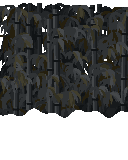
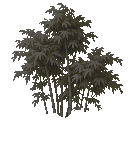
codex S1-BAMB2: done (chưa review)

diff --git a/tools/sprites/H-BAMB/build.py b/tools/sprites/H-BAMB/build.py
@@ -8,12 +8,12 @@ import hashlib
 import json
 import math
 import numpy as np
-from PIL import Image, ImageDraw, ImageFont
+from PIL import Image, ImageDraw
 
 ROOT = Path(__file__).resolve().parents[3]
 HERE = Path(__file__).resolve().parent
 OUT = ROOT / 'public/assets/kits/H-BAMB'
-REC = ROOT / 'records/S1-BAMB'
+REC = ROOT / 'records/S1-BAMB2'
 SRC = HERE / 'src'
 PAL = np.array(json.loads((SRC / 'palette.json').read_text(encoding='utf-8')), dtype=np.int32)
 PIECES = {}
@@ -21,136 +21,36 @@ FULL = {}
 
 
 
-import random
-S=4
-C_DK=[(16,19,21),(23,26,28),(29,32,34)]
-C_MID=[(36,39,41),(48,51,53),(37,31,14)]
-C_HI=[(61,64,67),(51,49,34),(69,72,74),(65,62,45)]
+# Generated whole-object sources; no concept foliage pixels are used.
+# Material subset of hall: warm gray / moss olive, excluding cold blue-grays.
+VEG_PAL = np.array([c for c in PAL.tolist() if tuple(c) in {
+    (20,17,13),(31,29,25),(37,36,30),(43,41,34),(51,49,34),
+    (52,49,43),(62,58,52),(65,62,45),(67,64,58),(74,70,62),
+    (81,77,70),(90,87,80)}], dtype=np.int32)
+MANIFEST = json.loads((OUT / 'kit.json').read_text(encoding='utf-8'))
+MANIFEST_SHA = hashlib.sha256((OUT / 'kit.json').read_bytes()).hexdigest()
+ACTOR_STATS = {}
 
 
-def blade(d, x, y, ang, ln, wd, col):
-    """Tapered curved leaf blade; coordinates in 1x px, drawn at S x."""
-    pts=[]; side=[]
-    n=6
-    a=ang
-    px,py=x,y
-    for i in range(n+1):
-        t=i/n
-        a=ang+ (math.pi/2-ang)*0.0
-        # droop: direction bends toward down
-        dx,dy=math.cos(a),math.sin(a)
-        bend=t*0.9
-        dx2=dx*(1-bend)
-        dy2=dy*(1-bend)+bend
-        m=math.hypot(dx2,dy2) or 1
-        step=ln/n
-        px+=dx2/m*step; py+=dy2/m*step
-        w=wd*(1-t)**0.7*(0.5+t*0.9) if t<.45 else wd*(1-t)*1.25
-        pts.append((px,py,w))
-    left=[];right=[]
-    for i,(qx,qy,w) in enumerate(pts):
-        j=min(i+1,n); k=max(i-1,0)
-        tx=pts[j][0]-pts[k][0]; ty=pts[j][1]-pts[k][1]
-        m=math.hypot(tx,ty) or 1
-        nx,ny=-ty/m,tx/m
-        left.append(((qx+nx*w/2)*S,(qy+ny*w/2)*S))
-        right.append(((qx-nx*w/2)*S,(qy-ny*w/2)*S))
-    d.polygon([(x*S,y*S)]+left+right[::-1],fill=col+(255,))
-
-
-def tuft(d, rng, x, y, size, layer, light=True):
-    cols={0:C_DK,1:C_MID,2:C_HI}[layer]
-    nb=int(9*size)
-    for _ in range(nb):
-        # fan: mostly down/out, some up-out
-        ang=rng.uniform(-0.5,math.pi+0.5)
-        ln=rng.uniform(.6,1.1)*14*size
-        wd=rng.uniform(3.2,4.6)*(0.8+0.3*size)
-        col=rng.choice(cols)
-        if layer==2 and ang>1.9:   # light only on upper-left leaning blades
-            col=C_MID[1]
-        blade(d,x,y,ang,ln,wd,col)
-
-
-def culm(d, x0, y0, y1, w, lean, rng, tone):
-    # tone 0 back (dark), 1 front
-    base=[(29,32,34),(42,45,48)][tone]
-    lit=[(42,45,48),(69,72,74)][tone]
-    shade=[(16,19,21),(23,26,28)][tone]
-    node=(11,7,5) if False else (16,19,21)
-    L=y1-y0 if False else None
-    n=int(abs(y1-y0))
-    for i in range(n+1):
-        y=y0-i if y1<y0 else y0+i
-        x=x0+lean*(y0-y)/max(1,abs(y1-y0))
-        d.rectangle([(x-w/2)*S,y*S,(x+w/2)*S-1,(y+1)*S-1],fill=base+(255,))
-        d.rectangle([(x-w/2)*S,y*S,(x-w/2+max(1,w*.3))*S-1,(y+1)*S-1],fill=lit+(255,))
-        d.rectangle([(x+w/2-max(1,w*.28))*S,y*S,(x+w/2)*S-1,(y+1)*S-1],fill=shade+(255,))
-    # nodes
-    sp=rng.uniform(21,26)
-    k=0
-    yy=y0-6
-    while yy>y1:
-        x=x0+lean*(y0-yy)/max(1,abs(y1-y0))
-        d.rectangle([(x-w/2-.6)*S,yy*S,(x+w/2+.6)*S-1,(yy+2)*S-1],fill=node+(255,))
-        d.rectangle([(x-w/2)*S,(yy-1)*S,(x+w/2-w*.3)*S-1,yy*S-1],fill=lit+(255,))
-        yy-=sp+rng.uniform(-3,3)
-
-
-def draw_bamboo(w, h, seed, dens, kind='grove'):
-    """dens(x)->0..1 left-to-right weight. Whole-object procedural drawing, 1x coords scaled by S."""
-    rng=random.Random(seed)
-    im=Image.new('RGBA',(w*S,h*S),(0,0,0,0))
-    d=ImageDraw.Draw(im)
-    # 1. dark canopy mass (back): big overlapping tufts, filled solid
-    top=0 if kind!='wall' else 0
-    for k in range(int(w*h/150*0.9)):
-        x=rng.uniform(0,w); 
-        if rng.random()>dens(x)+0.08: continue
-        y=rng.uniform(4,h*.74)
-        tuft(d,rng,x,y,rng.uniform(1.0,1.5),0)
-    # solid under-mass for density below canopy
-    for k in range(int(w/6)):
-        x=rng.uniform(0,w)
-        if rng.random()>dens(x): continue
-        for yy in range(int(h*.5),h-3,5):
-            tuft(d,rng,x+rng.uniform(-6,6),yy,rng.uniform(.8,1.1),0)
-    # 2. back culms
-    ncul=max(3,int(w/9))
-    xs=sorted(rng.uniform(4,w-4) for _ in range(ncul))
-    for x in xs:
-        if rng.random()>dens(x)+.1: continue
-        culm(d,x,h-3,2+rng.uniform(0,8),rng.uniform(4,5),rng.uniform(-4,4),rng,0)
-    # 3. mid foliage
-    for k in range(int(w*h/260)):
-        x=rng.uniform(0,w)
-        if rng.random()>dens(x): continue
-        y=rng.uniform(6,h*.72)
-        tuft(d,rng,x,y,rng.uniform(.9,1.3),1)
-    # 4. front culms (thicker, lighter), fewer
-    for x in xs[1::2]:
-        if rng.random()>dens(x)+.1: continue
-        culm(d,x+rng.uniform(-3,3),h-2,6+rng.uniform(0,14),rng.uniform(5,6.5),rng.uniform(-3,3),rng,1)
-    # 5. highlight foliage top-left of crowns
-    for k in range(int(w*h/380)):
-        x=rng.uniform(0,w)
-        if rng.random()>dens(x): continue
-        y=rng.uniform(6,h*.6)
-        tuft(d,rng,x,y,rng.uniform(.7,1.0),2)
-    # 6. foot: dark undergrowth + stones
-    for x in range(0,w,5):
-        if rng.random()<dens(x)+.1:
-            tuft(d,rng,x+rng.uniform(-2,2),h-rng.uniform(4,8),.6,0)
-    a=np.array(im)
-    xs=np.arange(w*S)/S
-    cut=(h-2-(2.5+2.5*np.sin(xs*.37+seed)+1.5*np.sin(xs*.11))).astype(float)*S
-    yy=np.arange(h*S)[:,None]
-    a[yy>cut[None,:]]=0
-    return Image.fromarray(a)
+def source_sprite(filename, size, inset=2, shift=0, shade=1.0):
+    src = Image.open(SRC / filename).convert('RGBA')
+    a = np.array(src)
+    # Ignore only the generator's low-alpha fringe; median makes binary alpha.
+    a[a[...,3] < 128] = 0
+    a[..., :3] = np.minimum(255, a[..., :3].astype(float)*shade).astype('uint8')
+    src = Image.fromarray(a)
+    src = src.crop(src.getbbox())
+    w,h = size
+    target = (w-2*inset-abs(shift), h-2*inset)
+    obj = clean(median(src, target))
+    obj = quant(obj, VEG_PAL)
+    canvas = Image.new('RGBA', size)
+    canvas.alpha_composite(obj, (inset+max(0,shift),inset))
+    return canvas
 
 
 def clean(im):
-    """Drop isolated opaque pixels and fill isolated holes (no speckle)."""
+    """Drop isolated opaque pixels (no speckle)."""
     a=np.array(im); al=a[...,3]>0
     n=sum(np.roll(np.roll(al,dy,0),dx,1).astype(int) for dy in(-1,0,1) for dx in(-1,0,1) if dx or dy)
     a[al&(n<=1)]=0
@@ -173,13 +73,13 @@ def median(im, size):
     return Image.fromarray(b)
 
 
-def quant(im):
+def quant(im, palette=PAL):
     a = np.array(im)
     mask = a[..., 3] > 0
     c = a[mask, :3].astype(np.int32)
     for i in range(0, len(c), 2048):
-        d = ((c[i:i+2048, None] - PAL[None])**2).sum(axis=2)
-        c[i:i+2048] = PAL[d.argmin(axis=1)]
+        d = ((c[i:i+2048, None] - palette[None])**2).sum(axis=2)
+        c[i:i+2048] = palette[d.argmin(axis=1)]
     a[mask, :3] = c
     a[~mask] = 0
     return Image.fromarray(a)
@@ -211,35 +111,33 @@ def split(name, im, foot):
     FULL[name] = im
 
 
+def path_centre(y, phase):
+    # Flat tangent at the common connectors: A/A, A/B, B/A and B/B all join.
+    t = max(0.0,min(1.0,(y-4)/55))
+    return 32 + phase*14*math.sin(math.pi*t)**2
+
+
 def path_tile(phase):
-    # Periodic centre line: every tile has the same north/south connection.
     im = Image.new('RGBA', (64,64), (46,44,40,255))
     d = ImageDraw.Draw(im)
-    def cx(y):
-        return 32 + phase*7*math.sin(2*math.pi*y/63)
     for y in range(64):
-        c = int(cx(y))
-        d.line((c-23,y,c+23,y), fill=(43,41,34,255))
-        d.line((c-18,y,c+17,y), fill=(51,49,34,255))
-    stones = [(-12, -8, 18, 15), (7, 0, 18, 14), (-8, 13, 23, 15),
-              (10, 26, 20, 14), (-10, 39, 22, 15), (7, 52, 19, 16)]
-    for i,(dx,y,w,h) in enumerate(stones):
-        c = round(cx(y%64))+dx-w//2
-        for sy in (y-64, y, y+64):
-            poly=[(c+3,sy),(c+w-3,sy-1),(c+w,sy+4),(c+w-2,sy+h-2),
-                  (c+4,sy+h),(c,sy+h-4),(c-1,sy+4)]
-            d.polygon(poly, fill=(24,22,18,255))
-            inset=[(a,b-2) for a,b in poly]
-            d.polygon(inset, fill=(67,64,58,255) if i%2 else (74,70,62,255))
-            d.line((c+4,sy-2,c+w-4,sy-3),fill=(90,87,80,255),width=2)
-            d.line((c+5,sy+6,c+10,sy+7,c+11,sy+10),fill=(56,53,47,255),width=2)
-    # Sparse grouped fallen leaves, no pixel noise/dither.
-    for x,y in [(9,18),(51,40),(12,51),(50,8)]:
+        c = round(path_centre(y,phase))
+        d.line((c-16,y,c+16,y), fill=(43,41,34,255))
+        d.line((c-13,y,c+13,y), fill=(51,49,34,255))
+    # Small worn stepping stones follow the curve instead of a straight strip.
+    for i,cy in enumerate([0,11,22,33,44,55]):
+        c = round(path_centre(cy,phase)) + (0 if i==0 else (-3 if i%2 else 3))
+        rw = [11,10,12,10,11,10][i]
+        for sy in [cy-63,cy,cy+63]:
+            poly=[(c-rw+3,sy-5),(c+rw-3,sy-5),(c+rw,sy-2),
+                  (c+rw-2,sy+4),(c-rw+2,sy+5),(c-rw,sy+1)]
+            d.polygon([(x,y+2) for x,y in poly],fill=(24,22,18,255))
+            d.polygon(poly,fill=(74,70,62,255) if i%2 else (67,64,58,255))
+            d.line((c-rw+3,sy-5,c+rw-3,sy-5),fill=(90,87,80,255))
+            d.line((c-rw+5,sy-1,c-rw+8,sy,c-rw+8,sy+2),fill=(56,53,47,255))
+    for x,y in [(6,18),(55,40),(8,51),(54,8)]:
         d.polygon([(x,y),(x+5,y+2),(x+2,y+3)],fill=(51,49,34,255))
-    a=np.array(im)
-    a[-1]=a[0]
-    a[:,-1]=a[:,0]
-    return Image.fromarray(a)
+    return im
 
 
 def sheet():
@@ -264,43 +162,54 @@ def sheet():
 
 def assemble():
     concept=Image.open(SRC/'concept-V1.png').convert('RGB')
-    # Only floor pixels are permitted concept reuse; sample open lower-right paving.
+    # The sole permitted concept reuse: open paving for this assembly only.
     floor=concept.crop((370,20,466,76))
     scene=Image.new('RGBA',(480,270))
     for y in range(0,270,floor.height):
         for x in range(0,480,floor.width):
             scene.paste(floor,(x,y))
-    for (tn,x,y) in [('a',64,60),('b',64,124),('a',64,188)]:
-        scene.alpha_composite(Image.open(OUT/('garden_path_'+tn+'.png')),(x,y))
-    placed=[('bamboo_wall',-5,-22),('bamboo_wall',60,-30),('bamboo_wall',110,-22),
-            ('bamboo_grove_b',-62,-42),('bamboo_grove_a',-30,-50),
-            ('bamboo_edge_R',70,-10),('bamboo_grove_b',110,-48),('bamboo_edge_L',150,-8)]
-    placed.sort(key=lambda t:t[2]+FULL[t[0]].height)
-    # Draw all base+roofs except a near foreground clump, then actor, then its roof.
-    for name,x,y in placed:
+    for tn,y in [('a',60),('b',124),('a',188)]:
+        scene.alpha_composite(Image.open(OUT/('garden_path_'+tn+'.png')),(65,y))
+    placed=[('bamboo_wall',-8,-30),('bamboo_wall',80,-42),
+            ('bamboo_grove_b',-47,-35),('bamboo_grove_a',53,-55),
+            ('bamboo_edge_R',145,-18)]
+    for name,x,y in sorted(placed,key=lambda t:t[2]+FULL[t[0]].height):
         scene.alpha_composite(FULL[name],(x,y))
-    near=('bamboo_edge_L',108,62)
-    name,x,y=near
-    scene.alpha_composite(Image.open(OUT/(name+'.png')),(x,y))
     atlas=Image.open(ROOT/'public/assets/dao_si.png').convert('RGBA')
     data=json.loads((ROOT/'public/assets/dao_si.json').read_text(encoding='utf-8'))
     f=next(f['frame'] for f in data['frames'] if f['filename']=='dao_si_idle_down_00')
     actor=atlas.crop((f['x'],f['y'],f['x']+f['w'],f['y']+f['h']))
-    actor_x,actor_y=74,104
+    actor_x,actor_y=69,108
+    actor_mask=np.array(actor)[...,3]>0
+    ys=np.where(actor_mask)[0]
+    upper = np.indices(actor_mask.shape)[0] <= ys.min() + int((ys.max()-ys.min())*.28)
+    total=int(actor_mask.sum())
+    roof=Image.open(OUT/'bamboo_edge_L_roof.png').convert('RGBA')
+    # Find a genuine tip overlap on the actor's upper silhouette only.
+    options=[]
+    for x in range(48,96):
+        for y in range(18,53):
+            mask=Image.new('RGBA',scene.size)
+            mask.alpha_composite(roof,(x,y))
+            coverage=np.array(mask)[actor_y:actor_y+64,actor_x:actor_x+64,3]>0
+            hidden=int((coverage&actor_mask).sum())
+            lower=int((coverage&actor_mask&~upper).sum())
+            if 0<hidden<=total*.4 and lower==0:
+                options.append((abs(hidden/total-.055),x,y,hidden))
+    assert options, 'No safe canopy-tip overlap found'
+    _,x,y,hidden=min(options)
+    scene.alpha_composite(Image.open(OUT/'bamboo_edge_L.png'),(x,y))
     scene.alpha_composite(actor,(actor_x,actor_y))
-    before=np.array(scene)
-    scene.alpha_composite(Image.open(OUT/(name+'_roof.png')),(x,y))
-    changed=np.any(np.array(scene)!=before,axis=2)
-    am=np.zeros((270,480),bool)
-    am[actor_y:actor_y+64,actor_x:actor_x+64]=np.array(actor)[...,3]>0
-    hidden=int((changed&am).sum())
+    scene.alpha_composite(roof,(x,y))
+    ACTOR_STATS.update(total=total,hidden=hidden,visible_pct=round(100*(1-hidden/total),2),
+                       upper_only=True,position=[actor_x,actor_y],foreground=[x,y])
     scene.convert('RGB').save(REC/'assembly-scene.png')
     board=Image.new('RGB',(960,294),'#24241f')
     board.paste(concept,(0,24))
     board.paste(scene.convert('RGB'),(480,24))
     d=ImageDraw.Draw(board)
     d.text((8,7),'Concept C / V1 - native 480x270',fill='#d8d2c4')
-    d.text((488,7),'H-BAMB / native 480x270 / real Dao Si',fill='#d8d2c4')
+    d.text((488,7),f'H-BAMB2 / Dao Si visible {ACTOR_STATS["visible_pct"]}%',fill='#d8d2c4')
     board.save(REC/'assembly.png')
     return hidden
 
@@ -308,12 +217,12 @@ def assemble():
 def build():
     OUT.mkdir(parents=True,exist_ok=True)
     REC.mkdir(parents=True,exist_ok=True)
-    dl=lambda x,w: 1.0
-    gA=quant(clean(median(draw_bamboo(128,160,11,lambda x:1.0),(128,160))))
-    gB=quant(clean(median(draw_bamboo(128,160,23,lambda x:1.0),(128,160))))
-    eL=quant(clean(median(draw_bamboo(64,128,31,lambda x:max(0.05,1-x/64*0.95),'edge'),(64,128))))
-    eR=quant(clean(median(draw_bamboo(64,128,37,lambda x:max(0.05,x/64*0.95),'edge'),(64,128))))
-    wl=quant(clean(median(draw_bamboo(128,96,41,lambda x:1.0,'wall'),(128,96))))
+    gA=source_sprite('grove-imagegen-v2.png',(128,160))
+    gB=source_sprite('grove-imagegen-v2.png',(128,160),inset=3,shift=7,shade=.92)
+    eL=source_sprite('edge-imagegen-v2.png',(64,128),inset=2)
+    # Use a complete grove for the opposite edge: no mirror that reverses light.
+    eR=source_sprite('grove-imagegen-v2.png',(64,128),inset=3,shift=3)
+    wl=source_sprite('grove-imagegen-v2.png',(128,96),inset=2,shade=.8)
     split('bamboo_grove_a',gA,[128,24])
     split('bamboo_grove_b',gB,[128,24])
     split('bamboo_edge_L',eL,[64,20])
@@ -321,7 +230,8 @@ def build():
     split('bamboo_wall',wl,[128,24])
     for letter,phase in [('a',1),('b',-1)]:
         save('garden_path_'+letter,path_tile(phase),'ground',[0,64],[64,64])
-    (OUT/'kit.json').write_text(json.dumps({'kit':'H-BAMB','pieces':PIECES},indent=2)+'\n',encoding='utf-8')
+    assert {'kit':'H-BAMB','pieces':PIECES} == MANIFEST, 'Manifest metadata changed'
+    assert hashlib.sha256((OUT/'kit.json').read_bytes()).hexdigest() == MANIFEST_SHA
     sheet()
     hidden=assemble()
     return hidden
@@ -329,6 +239,7 @@ def build():
 
 def verify(hidden):
     files=list(OUT.glob('*.png'))
+    assert {p.name for p in files} == {p['file'] for p in MANIFEST['pieces'].values()}
     allowed=set(map(tuple,PAL.tolist()))
     off=semi=0
     for path in files:
@@ -344,8 +255,18 @@ def verify(hidden):
         b=Image.open(OUT/(name+'.png')).convert('RGBA')
         b.alpha_composite(Image.open(OUT/(name+'_roof.png')))
         assert np.array_equal(np.array(b),np.array(full)),name+' split reconstruction'
-    assert hidden>0,'Actor must visibly overlap foreground roof'
-    return f'PASS H-BAMB: sprites={len(files)} K-A5={off} alpha_intermediate={semi} pairs=5 seamless_paths=2 actor_occluded_pixels={hidden}'
+    assert 0 < hidden <= ACTOR_STATS['total']*.4, 'Actor visibility below 60%'
+    assert ACTOR_STATS['upper_only']
+    # All variant combinations share both connector rows, including stone edges.
+    aa=np.array(Image.open(OUT/'garden_path_a.png'))
+    bb=np.array(Image.open(OUT/'garden_path_b.png'))
+    assert np.array_equal(aa[0],bb[-1]) and np.array_equal(bb[0],aa[-1])
+    for name,full in FULL.items():
+        a=np.array(full); mask=a[...,3]>0
+        assert not mask[0].any() and not mask[-1].any()
+        assert not mask[:,0].any() and not mask[:,-1].any(), name+' clipped edge'
+    (REC/'metrics.json').write_text(json.dumps({'actor':ACTOR_STATS,'manifest_sha256':MANIFEST_SHA,'sprites':{name:{'size':list(Image.open(OUT/p['file']).size),'anchor':p['anchor']} for name,p in PIECES.items()}},indent=2)+'\n',encoding='utf-8')
+    return f'PASS H-BAMB: sprites={len(files)} K-A5={off} alpha_intermediate={semi} pairs=5 seamless_paths=2 actor_occluded_pixels={hidden} actor_visible_pct={ACTOR_STATS['visible_pct']} upper_tips_only=YES manifest_unchanged=YES'
 
 
 if __name__=='__main__':
@@ -357,7 +278,8 @@ if __name__=='__main__':
     msg=verify(hidden) if args.verify else 'H-BAMB build complete'
     if args.repro:
         def hashes():
-            return {p.name:hashlib.sha256(p.read_bytes()).hexdigest() for p in OUT.iterdir() if p.is_file()}
+            return {str(p.relative_to(ROOT)):hashlib.sha256(p.read_bytes()).hexdigest()
+                    for p in list(OUT.iterdir()) + list(REC.glob('*.png')) if p.is_file()}
         first=hashes()
         hidden=build()
         assert first==hashes(),'Non-deterministic output'
